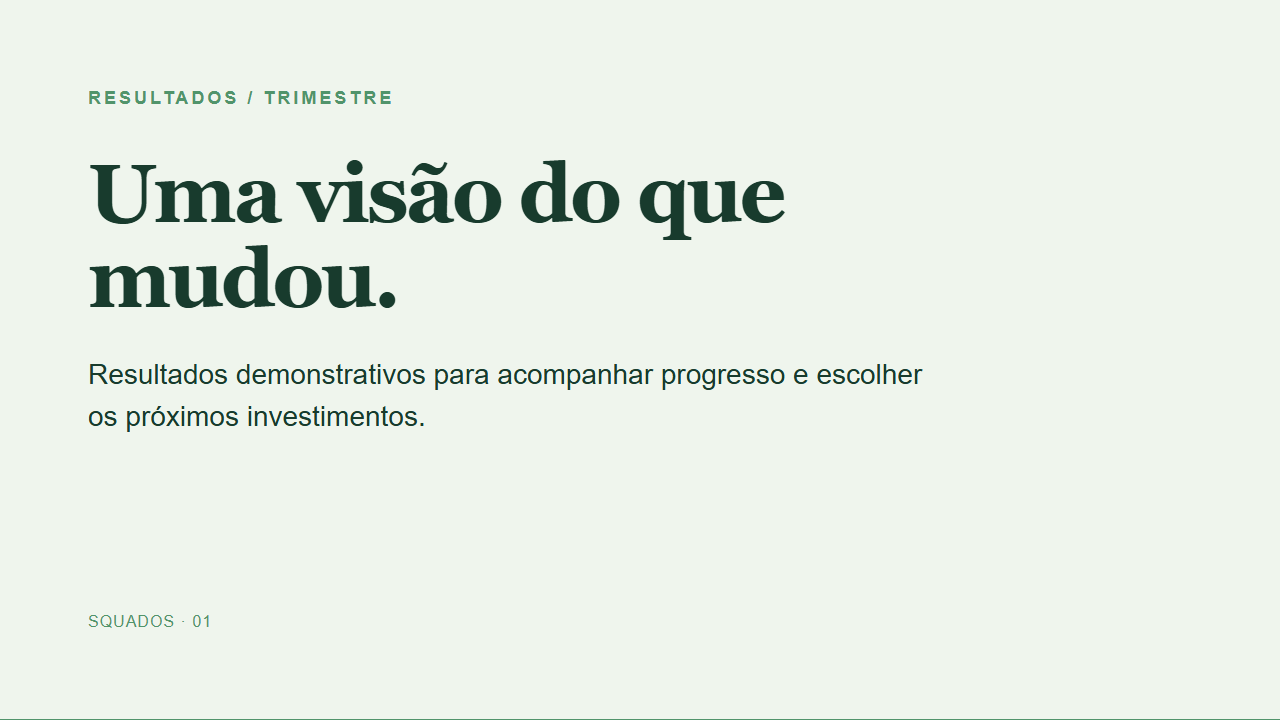
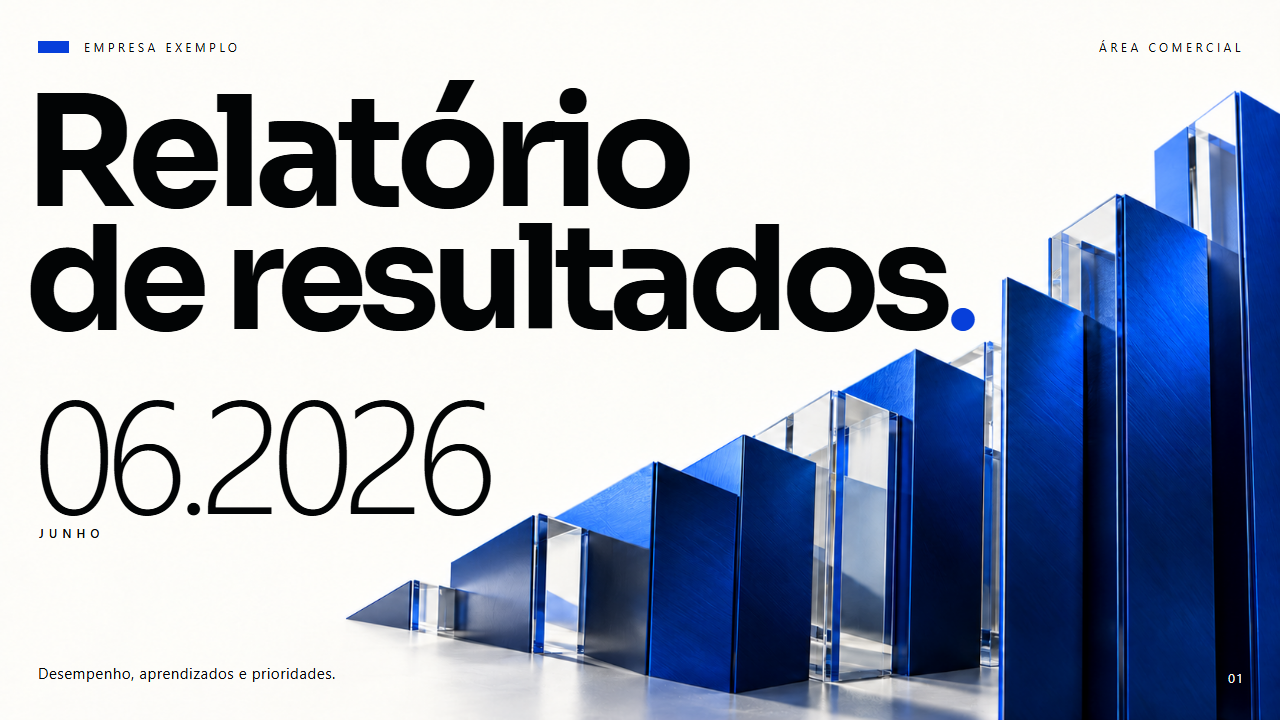
feat: integra capas editáveis no catálogo de apresentações

diff --git a/templates/slides-results/presentation.html b/templates/slides-results/presentation.html
@@ -1,1 +1,39 @@
-<!doctype html><html lang="pt-BR"><head><meta charset="utf-8"><title>Relatório de resultados</title><style>html,body{margin:0;padding:0;background:#eff5ed;color:#183b2d;font-family:Arial,sans-serif}section[data-slide]{width:1280px;height:720px;box-sizing:border-box;padding:88px;display:flex;flex-direction:column;justify-content:center;overflow:hidden;border-bottom:1px solid #51946b}.eyebrow{font-size:18px;letter-spacing:3px;font-weight:700;color:#51946b;margin-bottom:42px}h1{font-family:Georgia,serif;font-size:82px;line-height:1.04;max-width:920px;letter-spacing:-3px;margin:0 0 32px}p{font-size:28px;line-height:1.5;max-width:850px;margin:0}.footer{margin-top:auto;font-size:16px;color:#51946b;letter-spacing:1px}</style></head><body><section data-slide id="slide-1"><div class="eyebrow">RESULTADOS / TRIMESTRE</div><h1>Uma visão do que mudou.</h1><p>Resultados demonstrativos para acompanhar progresso e escolher os próximos investimentos.</p><div class="footer">SQUADOS · 01</div></section><section data-slide id="slide-2"><div class="eyebrow">INDICADORES</div><h1>Cada número conta uma história.</h1><p>Receita +18% · Entregas 42 · Satisfação 94%</p><div class="footer">SQUADOS · 02</div></section><section data-slide id="slide-3"><div class="eyebrow">CONCLUSÕES</div><h1>O próximo passo é foco.</h1><p>Conservar o que funcionou. Investigar os pontos de atenção. Priorizar as próximas três ações.</p><div class="footer">SQUADOS · 03</div></section></body></html>
+<!doctype html>
+<html lang="pt-BR">
+<head>
+  <meta charset="utf-8">
+  <title>Relatório de resultados</title>
+  <style>
+    html, body { margin: 0; padding: 0; background: #fbfaf7; }
+    * { box-sizing: border-box; }
+    section[data-slide] { position: relative; width: 1280px; height: 720px; overflow: hidden; color: #020405; }
+    .art { position: absolute; top: 0; left: 0; width: 1280px; height: 720px; object-fit: cover; }
+    h1, p { margin: 0; }
+    .mark { position: absolute; left: 38px; top: 41px; width: 31px; height: 12px; background: #073fda; }
+    .brand, .area, .month, .subtitle, .page { position: absolute; font-family: "Segoe UI", sans-serif; font-weight: 400; }
+    .brand { left: 84px; top: 40px; font-size: 12px; letter-spacing: 3.4px; line-height: 1.2; }
+    .area { right: 36px; top: 40px; font-size: 12px; letter-spacing: 3.5px; line-height: 1.2; }
+    .title { position: absolute; left: 25px; top: 91px; font-family: "Sora", "Arial Black", sans-serif; font-size: 145px; font-weight: 700; letter-spacing: -8px; line-height: 126px; }
+    .title-line { display: block; white-space: nowrap; }
+    .title-first { font-size: 153px; }
+    .dot { color: #073fda; font-family: "Times New Roman", Times, serif; }
+    .period { position: absolute; left: 33px; top: 368px; font-family: "Segoe UI", sans-serif; font-size: 160px; font-weight: 300; letter-spacing: -11px; line-height: 1; }
+    .month { left: 39px; top: 526px; font-size: 12px; font-weight: 600; letter-spacing: 5px; line-height: 1.3; }
+    .subtitle { left: 38px; top: 664px; font-size: 15px; letter-spacing: 0.5px; line-height: 1.3; }
+    .page { right: 36px; bottom: 36px; color: #f8f6ef; font-size: 13px; letter-spacing: 1px; line-height: 1; }
+  </style>
+</head>
+<body>
+  <section data-slide id="results-cover">
+    <img class="art" src="assets/results.png" alt="">
+    <div class="mark"></div>
+    <p id="results-brand" class="brand">EMPRESA EXEMPLO</p>
+    <p id="results-area" class="area">ÁREA COMERCIAL</p>
+    <h1 class="title"><span class="title-line title-first" id="results-title-line1">Relatório</span><span class="title-line" id="results-title-line2">de resultados<span class="dot">.</span></span></h1>
+    <p id="results-period" class="period">06.2026</p>
+    <p id="results-month" class="month">JUNHO</p>
+    <p id="results-subtitle" class="subtitle">Desempenho, aprendizados e prioridades.</p>
+    <p id="results-page" class="page">01</p>
+  </section>
+</body>
+</html>

diff --git a/templates/slides-commercial/presentation.html b/templates/slides-commercial/presentation.html
@@ -1,1 +1,37 @@
-<!doctype html><html lang="pt-BR"><head><meta charset="utf-8"><title>Proposta comercial</title><style>html,body{margin:0;padding:0;background:#151d25;color:#f4ede0;font-family:Arial,sans-serif}section[data-slide]{width:1280px;height:720px;box-sizing:border-box;padding:88px;display:flex;flex-direction:column;justify-content:center;overflow:hidden;border-bottom:1px solid #e6a94d}.eyebrow{font-size:18px;letter-spacing:3px;font-weight:700;color:#e6a94d;margin-bottom:42px}h1{font-family:Georgia,serif;font-size:82px;line-height:1.04;max-width:920px;letter-spacing:-3px;margin:0 0 32px}p{font-size:28px;line-height:1.5;max-width:850px;margin:0}.footer{margin-top:auto;font-size:16px;color:#e6a94d;letter-spacing:1px}</style></head><body><section data-slide id="slide-1"><div class="eyebrow">01 / PROPOSTA</div><h1>Uma nova forma de trabalhar.</h1><p>Da oportunidade ao resultado, com um plano claro e uma equipe alinhada.</p><div class="footer">SQUADOS · 01</div></section><section data-slide id="slide-2"><div class="eyebrow">02 / OPORTUNIDADE</div><h1>Menos atrito. Mais resultado.</h1><p>Um fluxo simples para reunir informações, decidir com clareza e executar o próximo passo.</p><div class="footer">SQUADOS · 02</div></section><section data-slide id="slide-3"><div class="eyebrow">03 / PRÓXIMOS PASSOS</div><h1>Vamos construir juntos.</h1><p>Defina o objetivo · Combine as entregas · Acompanhe os resultados</p><div class="footer">SQUADOS · 03</div></section></body></html>
+<!doctype html>
+<html lang="pt-BR">
+<head>
+  <meta charset="utf-8">
+  <title>Proposta comercial</title>
+  <style>
+    html, body { margin: 0; padding: 0; background: #240403; }
+    * { box-sizing: border-box; }
+    section[data-slide] { position: relative; width: 1280px; height: 720px; overflow: hidden; color: #f2e7d3; }
+    .art { position: absolute; top: 0; left: 0; width: 1280px; height: 720px; object-fit: cover; }
+    h1, p { margin: 0; }
+    .brand, .date, .client-label, .page { position: absolute; font-family: "Segoe UI", sans-serif; font-weight: 500; }
+    .brand { left: 38px; top: 31px; font-size: 11px; letter-spacing: 3.4px; line-height: 1.3; text-transform: uppercase; }
+    .date { right: 36px; top: 31px; font-size: 10px; letter-spacing: 3px; line-height: 1.3; }
+    .title { position: absolute; top: 152px; left: 31px; font-family: "Times New Roman", Times, serif; font-weight: 400; }
+    .title-first { display: block; font-size: 163px; line-height: 145px; letter-spacing: -6px; }
+    .title-second { display: block; font-size: 155px; line-height: 147px; letter-spacing: -7px; font-style: italic; }
+    .dot { color: #d15e40; }
+    .subtitle { position: absolute; left: 39px; top: 442px; font-family: "Segoe UI", sans-serif; font-size: 24px; font-weight: 300; letter-spacing: 1.3px; line-height: 1.2; }
+    .client-label { left: 39px; top: 633px; font-size: 10px; letter-spacing: 3.4px; line-height: 1.4; }
+    .client { position: absolute; left: 39px; top: 650px; font-family: "Times New Roman", Times, serif; font-size: 30px; line-height: 1.1; letter-spacing: -1px; }
+    .page { right: 36px; bottom: 36px; font-size: 13px; letter-spacing: 2px; line-height: 1; }
+  </style>
+</head>
+<body>
+  <section data-slide id="commercial-cover">
+    <img class="art" src="assets/commercial.png" alt="">
+    <p id="commercial-brand" class="brand">Estúdio Exemplo</p>
+    <p id="commercial-date" class="date">OUTUBRO 2026</p>
+    <h1 class="title"><span class="title-first" id="commercial-title-line1">Proposta</span><span class="title-second" id="commercial-title-line2">comercial<span class="dot">.</span></span></h1>
+    <p id="commercial-subtitle" class="subtitle">Um novo desenho para o atendimento.</p>
+    <p id="commercial-client-label" class="client-label">PREPARADO PARA</p>
+    <p id="commercial-client" class="client">Empresa Exemplo</p>
+    <p id="commercial-page" class="page">01</p>
+  </section>
+</body>
+</html>

diff --git a/templates/slides-training/presentation.html b/templates/slides-training/presentation.html
@@ -1,1 +1,37 @@
-<!doctype html><html lang="pt-BR"><head><meta charset="utf-8"><title>Treinamento</title><style>html,body{margin:0;padding:0;background:#eaf0fa;color:#18325c;font-family:Arial,sans-serif}section[data-slide]{width:1280px;height:720px;box-sizing:border-box;padding:88px;display:flex;flex-direction:column;justify-content:center;overflow:hidden;border-bottom:1px solid #4382cc}.eyebrow{font-size:18px;letter-spacing:3px;font-weight:700;color:#4382cc;margin-bottom:42px}h1{font-family:Georgia,serif;font-size:82px;line-height:1.04;max-width:920px;letter-spacing:-3px;margin:0 0 32px}p{font-size:28px;line-height:1.5;max-width:850px;margin:0}.footer{margin-top:auto;font-size:16px;color:#4382cc;letter-spacing:1px}</style></head><body><section data-slide id="slide-1"><div class="eyebrow">TREINAMENTO / INTRODUÇÃO</div><h1>Aprender para fazer.</h1><p>Uma conversa prática sobre um tema importante, com exemplos e uma atividade ao final.</p><div class="footer">SQUADOS · 01</div></section><section data-slide id="slide-2"><div class="eyebrow">CONCEITOS / 02</div><h1>Três ideias para levar com você.</h1><p>Entenda o contexto · Pratique com um exemplo · Aplique no seu trabalho</p><div class="footer">SQUADOS · 02</div></section><section data-slide id="slide-3"><div class="eyebrow">ATIVIDADE / 03</div><h1>Agora é a sua vez.</h1><p>Escolha um caso real. Descreva a situação. Proponha uma ação e compartilhe o que aprendeu.</p><div class="footer">SQUADOS · 03</div></section></body></html>
+<!doctype html>
+<html lang="pt-BR">
+<head>
+  <meta charset="utf-8">
+  <title>Treinamento</title>
+  <style>
+    html, body { margin: 0; padding: 0; background: #fb4c13; }
+    * { box-sizing: border-box; }
+    section[data-slide] { position: relative; width: 1280px; height: 720px; overflow: hidden; color: #291326; }
+    .art { position: absolute; top: 0; left: 0; width: 1280px; height: 720px; object-fit: cover; }
+    h1, p { margin: 0; }
+    .kind, .format, .credit, .company, .page { position: absolute; font-family: "Segoe UI", sans-serif; }
+    .kind { left: 39px; top: 22px; font-size: 15px; font-weight: 700; letter-spacing: 3.3px; line-height: 1.3; }
+    .format { right: 36px; top: 22px; font-size: 15px; font-weight: 700; letter-spacing: 3.3px; line-height: 1.3; }
+    .title { position: absolute; left: 34px; top: 54px; font-family: "Anton", Impact, sans-serif; font-weight: 400; }
+    .title-first { display: block; font-size: 244px; line-height: 213px; letter-spacing: -2px; }
+    .title-second { display: block; font-size: 228px; line-height: 212px; letter-spacing: -1px; }
+    .dot { font-family: "Times New Roman", Times, serif; font-weight: 700; }
+    .subtitle { position: absolute; left: 41px; top: 475px; font-family: "Anton", Impact, sans-serif; font-size: 32px; font-weight: 400; letter-spacing: 0.6px; line-height: 1.2; color: #ffe3b9; }
+    .credit { left: 39px; top: 642px; font-size: 11px; font-weight: 600; letter-spacing: 2.3px; line-height: 1.4; }
+    .company { left: 39px; top: 661px; font-size: 17px; font-weight: 400; line-height: 1.3; }
+    .page { right: 36px; bottom: 36px; font-size: 14px; font-weight: 600; line-height: 1; }
+  </style>
+</head>
+<body>
+  <section data-slide id="training-cover">
+    <img class="art" src="assets/training.png" alt="">
+    <p id="training-kind" class="kind">TREINAMENTO</p>
+    <p id="training-format" class="format">OFICINA PRÁTICA</p>
+    <h1 class="title"><span class="title-first" id="training-title-line1">Aprender</span><span class="title-second" id="training-title-line2">fazendo<span class="dot">.</span></span></h1>
+    <p id="training-subtitle" class="subtitle">Reuniões que terminam com decisões claras.</p>
+    <p id="training-credit" class="credit">EXEMPLOS, PRÁTICA E APLICAÇÃO</p>
+    <p id="training-company" class="company">Empresa Exemplo</p>
+    <p id="training-page" class="page">01</p>
+  </section>
+</body>
+</html>

diff --git a/templates/slides-results/README.md b/templates/slides-results/README.md
@@ -1,7 +1,19 @@
-# Results report
+# Relatório de resultados / Results report
 
-Base demonstrativa com conteúdo genérico. Adapte uma cópia; conserve esta base.
+Template aprovado em 22/10/2026: somente uma capa, em HTML/CSS, com todos os textos editáveis.
 
-Abra presentation.html. Altere os slides pelo HTML/CSS, mantendo section[data-slide], ids e dimensões 1280×720.
+## Uso e personalização
 
-Source: SquadOS. Código adaptado do SquadOS Apache-2.0; licença upstream conservada quando houver. Nenhum serviço/segredo configurado.
+Copie o pacote inteiro para a pasta de trabalho e abra presentation.html. Preserve assets/, LICENSE e os IDs dos elementos. O slide mede 1280×720 e usa o ID results-cover. Títulos, empresa, período e rodapés são texto real no HTML; a imagem em assets/results.png contém somente a arte de fundo. Ajuste conteúdo e quebras de linha na cópia. Acrescente slides quando solicitados.
+
+Fontes locais: Sora (Arial Black como alternativa / fallback); Segoe UI. Fontes não incluídas; os fallbacks definidos no CSS podem mudar as proporções em outro computador. Esta capa não depende de rede, scripts ou servidor.
+
+preview.png é a captura do HTML aprovado. Dados, empresas e datas são exemplos. A edição pelo Hermes depende da sessão real do Studio; os checks deste pacote comprovam HTML, recursos e renderização.
+
+## Origem e licença
+
+HTML/CSS autoral do SquadOS. Arte criada e preparada com ImageGen nativo do Codex, sem tipografia incorporada. Licença Apache-2.0, preservada em LICENSE. Nenhum arquivo de fonte ou asset de terceiros é distribuído neste pacote.
+
+## English
+
+This template contains a single editable HTML/CSS cover at 1280×720. Copy the complete package before personalizing it; keep assets/, LICENSE and the stable slide/field IDs. The background PNG has no text. All visible titles, names, dates and footer labels are HTML text. Add more slides when requested. Local fonts and CSS fallbacks may change letter proportions across computers. preview.png is a rendering of the actual source. Example names and dates are placeholders. Open presentation.html directly; the cover uses no scripts, server or remote resources.

diff --git a/templates/slides-commercial/README.md b/templates/slides-commercial/README.md
@@ -1,7 +1,19 @@
-# Commercial proposal
+# Proposta comercial / Commercial proposal
 
-Base demonstrativa com conteúdo genérico. Adapte uma cópia; conserve esta base.
+Template aprovado em 22/10/2026: somente uma capa, em HTML/CSS, com todos os textos editáveis.
 
-Abra presentation.html. Altere os slides pelo HTML/CSS, mantendo section[data-slide], ids e dimensões 1280×720.
+## Uso e personalização
 
-Source: SquadOS. Código adaptado do SquadOS Apache-2.0; licença upstream conservada quando houver. Nenhum serviço/segredo configurado.
+Copie o pacote inteiro para a pasta de trabalho e abra presentation.html. Preserve assets/, LICENSE e os IDs dos elementos. O slide mede 1280×720 e usa o ID commercial-cover. Títulos, empresa, período e rodapés são texto real no HTML; a imagem em assets/commercial.png contém somente a arte de fundo. Ajuste conteúdo e quebras de linha na cópia. Acrescente slides quando solicitados.
+
+Fontes locais: Times New Roman; Segoe UI. Fontes não incluídas; os fallbacks definidos no CSS podem mudar as proporções em outro computador. Esta capa não depende de rede, scripts ou servidor.
+
+preview.png é a captura do HTML aprovado. Dados, empresas e datas são exemplos. A edição pelo Hermes depende da sessão real do Studio; os checks deste pacote comprovam HTML, recursos e renderização.
+
+## Origem e licença
+
+HTML/CSS autoral do SquadOS. Arte criada e preparada com ImageGen nativo do Codex, sem tipografia incorporada. Licença Apache-2.0, preservada em LICENSE. Nenhum arquivo de fonte ou asset de terceiros é distribuído neste pacote.
+
+## English
+
+This template contains a single editable HTML/CSS cover at 1280×720. Copy the complete package before personalizing it; keep assets/, LICENSE and the stable slide/field IDs. The background PNG has no text. All visible titles, names, dates and footer labels are HTML text. Add more slides when requested. Local fonts and CSS fallbacks may change letter proportions across computers. preview.png is a rendering of the actual source. Example names and dates are placeholders. Open presentation.html directly; the cover uses no scripts, server or remote resources.

diff --git a/templates/slides-training/README.md b/templates/slides-training/README.md
@@ -1,7 +1,19 @@
-# Training
+# Treinamento / Training
 
-Base demonstrativa com conteúdo genérico. Adapte uma cópia; conserve esta base.
+Template aprovado em 22/10/2026: somente uma capa, em HTML/CSS, com todos os textos editáveis.
 
-Abra presentation.html. Altere os slides pelo HTML/CSS, mantendo section[data-slide], ids e dimensões 1280×720.
+## Uso e personalização
 
-Source: SquadOS. Código adaptado do SquadOS Apache-2.0; licença upstream conservada quando houver. Nenhum serviço/segredo configurado.
+Copie o pacote inteiro para a pasta de trabalho e abra presentation.html. Preserve assets/, LICENSE e os IDs dos elementos. O slide mede 1280×720 e usa o ID training-cover. Títulos, empresa, período e rodapés são texto real no HTML; a imagem em assets/training.png contém somente a arte de fundo. Ajuste conteúdo e quebras de linha na cópia. Acrescente slides quando solicitados.
+
+Fontes locais: Anton (Impact como alternativa / fallback); Segoe UI. Fontes não incluídas; os fallbacks definidos no CSS podem mudar as proporções em outro computador. Esta capa não depende de rede, scripts ou servidor.
+
+preview.png é a captura do HTML aprovado. Dados, empresas e datas são exemplos. A edição pelo Hermes depende da sessão real do Studio; os checks deste pacote comprovam HTML, recursos e renderização.
+
+## Origem e licença
+
+HTML/CSS autoral do SquadOS. Arte criada e preparada com ImageGen nativo do Codex, sem tipografia incorporada. Licença Apache-2.0, preservada em LICENSE. Nenhum arquivo de fonte ou asset de terceiros é distribuído neste pacote.
+
+## English
+
+This template contains a single editable HTML/CSS cover at 1280×720. Copy the complete package before personalizing it; keep assets/, LICENSE and the stable slide/field IDs. The background PNG has no text. All visible titles, names, dates and footer labels are HTML text. Add more slides when requested. Local fonts and CSS fallbacks may change letter proportions across computers. preview.png is a rendering of the actual source. Example names and dates are placeholders. Open presentation.html directly; the cover uses no scripts, server or remote resources.
